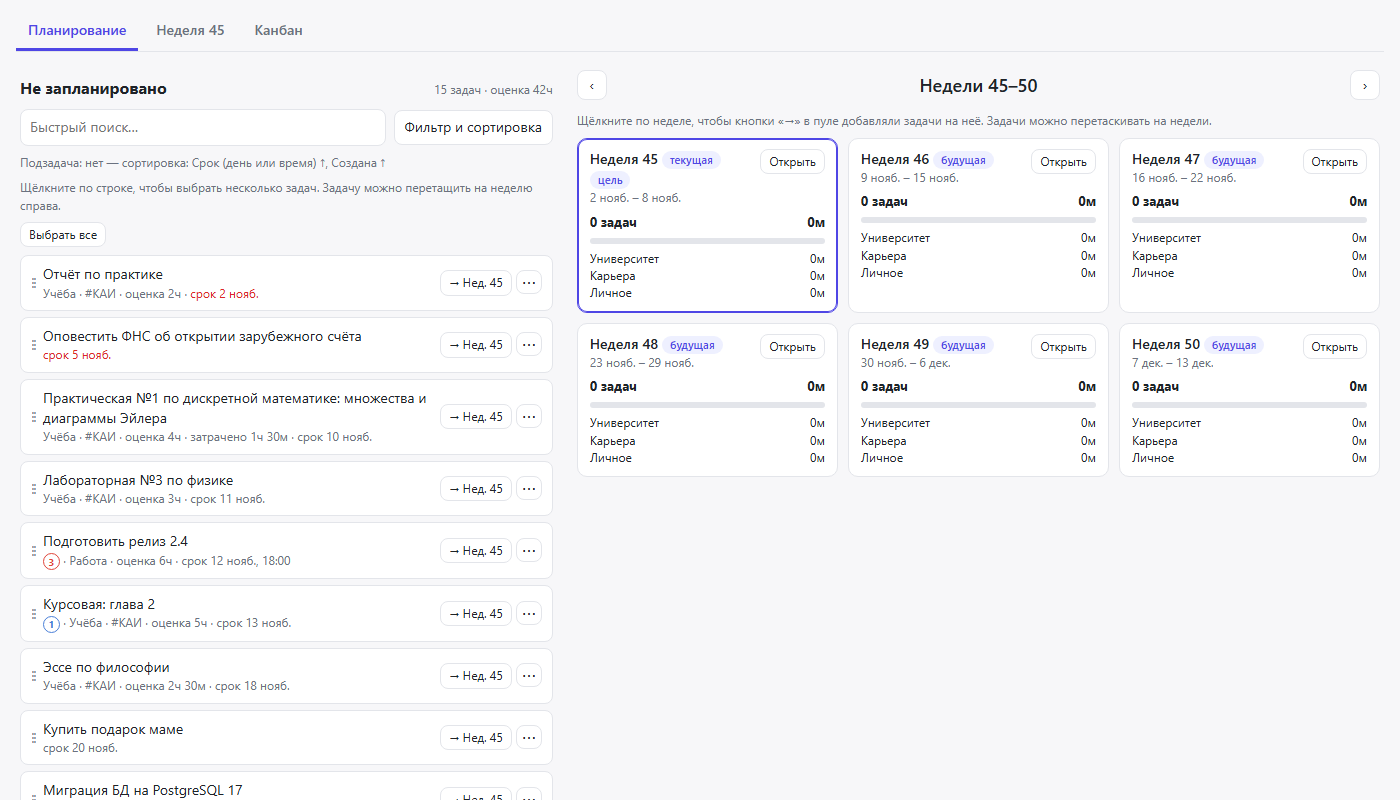
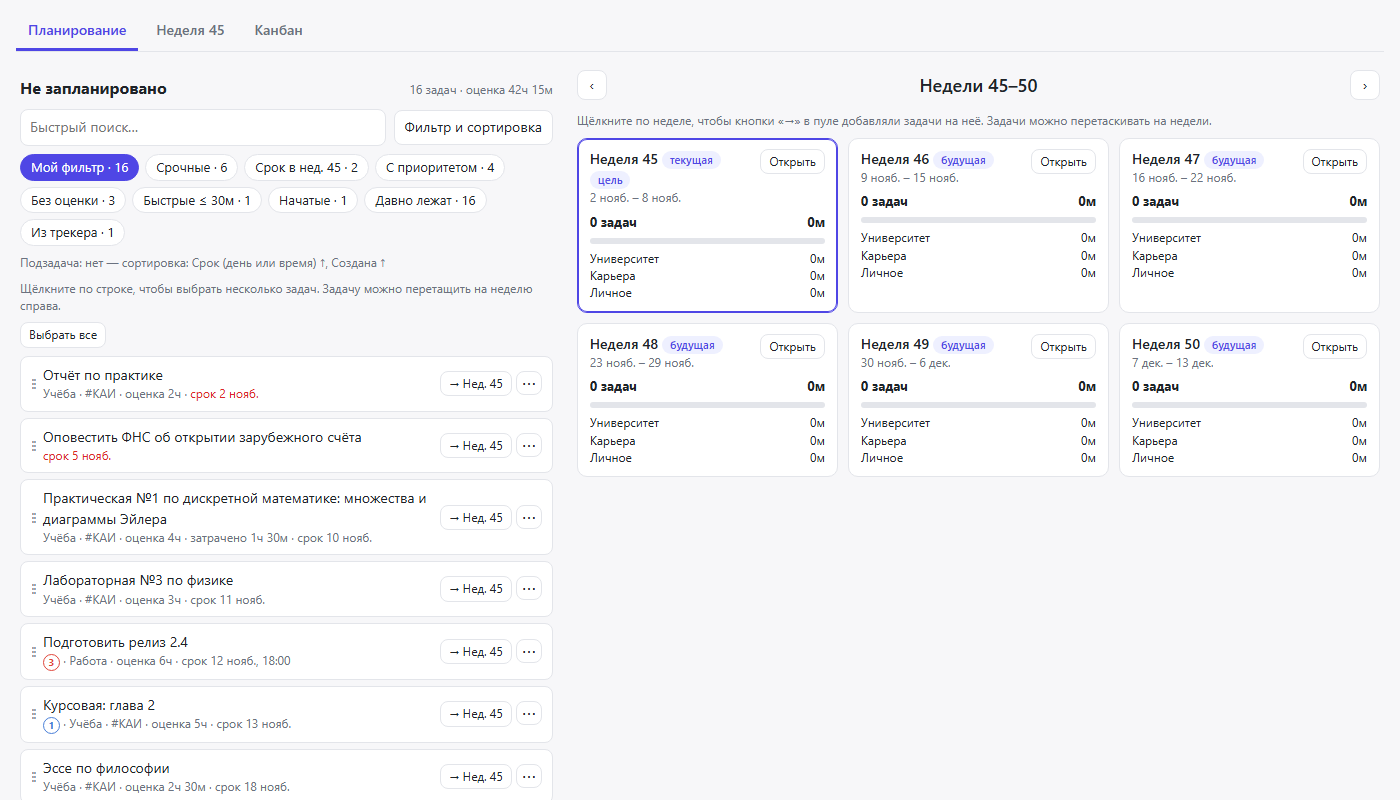
0.8.0: ready-made filters for the unplanned pool

Changed region(s): [[0.0, 0.1875, 0.3993, 1.0], [0.3071, 0.0938, 0.3993, 0.125], [0.3071, 0.9688, 0.3686, 1.0]]

diff --git a/week-planner/index.html b/week-planner/index.html
@@ -244,6 +244,7 @@
         <input id="poolSearch" type="search" autocomplete="off">
         <button type="button" id="poolCfgBtn"></button>
       </div>
+      <div id="poolPresets" class="chips" style="margin-bottom:8px"></div>
       <div id="poolSummary" class="muted hint"></div>
       <div id="poolHint" class="muted hint"></div>
       <div class="toolbar">
@@ -367,6 +368,18 @@
       toDoing: 'Start →', toDone: 'Done →', toTodo: '← To do', reopen: '← Reopen',
       toastAdded: 'Added to week {w}: {n}', toastMoved: 'Moved to week {w}: {n}', toastRemoved: 'Removed from the week: {n}',
       undo: 'Undo', undone: 'Undone',
+      pr_custom: 'My filter', pr_urgent: 'Urgent', pr_week: 'Due in W{n}', pr_prio: 'With priority',
+      pr_noest: 'No estimate', pr_quick: 'Quick ≤ 30m', pr_started: 'Started', pr_stale: 'Old', pr_issues: 'From tracker',
+      prh_custom: 'Your filter from "Filter & sort"',
+      prh_urgent: 'Due in 7 days or earlier, overdue included. By due date.',
+      prh_week: 'Due in the week selected on the right. By due date.',
+      prh_prio: 'Tasks with a priority. 3 first, then 2, then 1.',
+      prh_noest: 'Tasks without an estimate: estimate them before planning.',
+      prh_quick: 'Estimate of 30 minutes or less. Shortest first.',
+      prh_started: 'Time already tracked. Most tracked first.',
+      prh_stale: 'Created more than 30 days ago. Oldest first.',
+      prh_issues: 'Tasks from GitHub, GitLab and other trackers.',
+      edPoolFrom: 'Based on the ready-made filter "{p}". After saving it becomes "My filter".',
       allocated: 'Allocated to categories {a} of {b}',
       allocOver: 'Category limits ({a}) exceed the week limit ({b}). Lower the category limits.',
       catClamped: 'Limit of "{name}" lowered to {t}: category limits together cannot exceed the week limit ({w}).',
@@ -406,7 +419,7 @@
       op_contains: 'contains', op_notContains: 'does not contain', op_equals: 'equals', op_startsWith: 'starts with',
       op_empty: 'is empty', op_notEmpty: 'is not empty', op_gt: '>', op_gte: '≥', op_lt: '<', op_lte: '≤', op_eq: '=',
       op_isTrue: 'yes', op_isFalse: 'no', op_on: 'on', op_before: 'before', op_after: 'after',
-      op_overdue: 'is overdue', op_withinDays: 'within next N days', op_inSelWeek: 'in target week',
+      op_overdue: 'is overdue', op_withinDays: 'within the next', op_byDays: 'no later than in', op_olderThanDays: 'more than', daysAgo: 'days ago', op_inSelWeek: 'in target week',
       op_in: 'is one of', op_notIn: 'is not one of', op_any: 'has any of', op_all: 'has all of', op_none: 'has none of'
     },
     ru: {
@@ -438,6 +451,18 @@
       toDoing: 'В работу →', toDone: 'Готово →', toTodo: '← Сделать', reopen: '← Вернуть',
       toastAdded: 'Добавлено на неделю {w}: {n}', toastMoved: 'Перенесено на неделю {w}: {n}', toastRemoved: 'Убрано из недели: {n}',
       undo: 'Отменить', undone: 'Действие отменено',
+      pr_custom: 'Мой фильтр', pr_urgent: 'Срочные', pr_week: 'Срок в нед. {n}', pr_prio: 'С приоритетом',
+      pr_noest: 'Без оценки', pr_quick: 'Быстрые ≤ 30м', pr_started: 'Начатые', pr_stale: 'Давно лежат', pr_issues: 'Из трекера',
+      prh_custom: 'Ваш фильтр из «Фильтр и сортировка»',
+      prh_urgent: 'Срок через 7 дней или раньше, включая просроченные. По сроку.',
+      prh_week: 'Срок попадает в неделю, выбранную справа. По сроку.',
+      prh_prio: 'Задачи с приоритетом. Сначала 3, потом 2, потом 1.',
+      prh_noest: 'Задачи без оценки: их надо оценить перед планированием.',
+      prh_quick: 'Оценка 30 минут или меньше. Короткие — выше.',
+      prh_started: 'Уже есть затраченное время. Больше затрачено — выше.',
+      prh_stale: 'Созданы больше 30 дней назад. Старые — выше.',
+      prh_issues: 'Задачи из GitHub, GitLab и других трекеров.',
+      edPoolFrom: 'Основа — готовый фильтр «{p}». После сохранения он станет «Моим фильтром».',
       allocated: 'Распределено по категориям {a} из {b}',
       allocOver: 'Сумма лимитов категорий ({a}) больше лимита недели ({b}). Уменьшите лимиты категорий.',
       catClamped: 'Лимит «{name}» уменьшен до {t}: сумма лимитов категорий не может быть больше лимита недели ({w}).',
@@ -477,7 +502,7 @@
       op_contains: 'содержит', op_notContains: 'не содержит', op_equals: 'равно', op_startsWith: 'начинается с',
       op_empty: 'пусто', op_notEmpty: 'не пусто', op_gt: '>', op_gte: '≥', op_lt: '<', op_lte: '≤', op_eq: '=',
       op_isTrue: 'да', op_isFalse: 'нет', op_on: 'в день', op_before: 'раньше', op_after: 'позже',
-      op_overdue: 'просрочен', op_withinDays: 'в ближайшие N дней', op_inSelWeek: 'в целевую неделю',
+      op_overdue: 'просрочен', op_withinDays: 'в ближайшие', op_byDays: 'не позже чем через', op_olderThanDays: 'более', daysAgo: 'дн. назад', op_inSelWeek: 'в целевую неделю',
       op_in: 'один из', op_notIn: 'не из', op_any: 'любой из', op_all: 'все из', op_none: 'ни одного из'
     }
   };
@@ -612,11 +637,12 @@
     num: ['gt', 'gte', 'lt', 'lte', 'eq', 'empty', 'notEmpty'],
     dur: ['gt', 'gte', 'lt', 'lte', 'eq', 'empty', 'notEmpty'],
     bool: ['isTrue', 'isFalse'],
-    date: ['before', 'after', 'on', 'overdue', 'withinDays', 'inSelWeek', 'empty', 'notEmpty'],
+    date: ['before', 'after', 'on', 'overdue', 'withinDays', 'byDays', 'olderThanDays', 'inSelWeek', 'empty', 'notEmpty'],
     ref: ['in', 'notIn', 'empty', 'notEmpty'],
     set: ['any', 'all', 'none', 'empty', 'notEmpty']
   };
   var NO_VALUE_OPS = { empty: 1, notEmpty: 1, isTrue: 1, isFalse: 1, overdue: 1, inSelWeek: 1 };
+  var DAYS_OPS = { withinDays: 1, byDays: 1, olderThanDays: 1 };
   var fields = [];
   var fieldMap = {};
 
@@ -694,6 +720,8 @@
         if (op === 'after') return !c.value || d > c.value;
         if (op === 'overdue') return d < state.today;
         if (op === 'withinDays') return d >= state.today && d <= addDays(state.today, Number(c.value) || 0);
+        if (op === 'byDays') return d <= addDays(state.today, Number(c.value) || 0);
+        if (op === 'olderThanDays') return d < addDays(state.today, -(Number(c.value) || 0));
         if (op === 'inSelWeek') return isoWeekKey(new Date(v)) === state.target;
         return true;
       }
@@ -802,7 +830,8 @@
       },
       cats: d.cats,
       weekLimitH: posNum(raw.weekLimitH),
-      cardSort: normSort(raw.cardSort, d.cardSort)
+      cardSort: normSort(raw.cardSort, d.cardSort),
+      poolPreset: typeof raw.poolPreset === 'string' ? raw.poolPreset : null
     };
     if (Array.isArray(raw.cats)) {
       cfg.cats = raw.cats.filter(function (c) { return c && c.id; }).map(function (c) {
@@ -1079,8 +1108,40 @@
       .sort(function (a, b) { return state.assign[a.id].w < state.assign[b.id].w ? -1 : 1; });
   }
 
+  // ---------- ready-made pool filters ----------
+  // Every preset hides subtasks, like the default custom filter: their hours are part of the parent.
+  var NO_SUB = { field: 'isSubtask', op: 'isFalse' };
+  var PRESETS = [
+    { id: 'urgent', conds: [{ field: 'due', op: 'byDays', value: 7 }], sort: [{ field: 'due', dir: 'asc' }, { field: 'x:priority', dir: 'desc' }] },
+    { id: 'week', conds: [{ field: 'due', op: 'inSelWeek' }], sort: [{ field: 'due', dir: 'asc' }] },
+    { id: 'prio', needs: 'x:priority', conds: [{ field: 'x:priority', op: 'notEmpty' }], sort: [{ field: 'x:priority', dir: 'desc' }, { field: 'due', dir: 'asc' }] },
+    { id: 'noest', conds: [{ field: 'timeEstimate', op: 'empty' }], sort: [{ field: 'due', dir: 'asc' }, { field: 'created', dir: 'asc' }] },
+    { id: 'quick', conds: [{ field: 'timeEstimate', op: 'notEmpty' }, { field: 'timeEstimate', op: 'lte', value: 0.5 }], sort: [{ field: 'timeEstimate', dir: 'asc' }, { field: 'due', dir: 'asc' }] },
+    { id: 'started', conds: [{ field: 'timeSpent', op: 'notEmpty' }], sort: [{ field: 'timeSpent', dir: 'desc' }] },
+    { id: 'stale', conds: [{ field: 'created', op: 'olderThanDays', value: 30 }], sort: [{ field: 'created', dir: 'asc' }] },
+    { id: 'issues', conds: [{ field: 'hasIssue', op: 'isTrue' }], sort: [{ field: 'due', dir: 'asc' }, { field: 'issueType', dir: 'asc' }] }
+  ];
+
+  function presetView(p) {
+    return { id: 'pool', match: 'all', conds: [NO_SUB].concat(p.conds), sort: p.sort };
+  }
+  function availablePresets() {
+    return PRESETS.filter(function (p) { return !p.needs || fieldMap[p.needs]; });
+  }
+  function presetLabel(id) {
+    return id === 'week' ? t('pr_week', { n: weekNum(state.target) }) : t('pr_' + id);
+  }
+  function activePreset() {
+    var id = state.cfg.poolPreset;
+    return availablePresets().filter(function (p) { return p.id === id; })[0] || null;
+  }
+  function activePoolView() {
+    var p = activePreset();
+    return p ? presetView(p) : state.cfg.pool;
+  }
+
   function poolTasks(view) {
-    var v = view || state.cfg.pool;
+    var v = view || activePoolView();
     var q = state.poolQuery.trim().toLowerCase();
     return sortTasks(Object.keys(state.tasks).map(function (id) { return state.tasks[id]; }).filter(function (task) {
       return !task.isDone && !state.archived[task.id] && !state.assign[task.id] &&
@@ -1409,7 +1470,22 @@
     list.forEach(function (x) { visibleIds[x.id] = true; });
     Object.keys(state.poolSel).forEach(function (id) { if (!visibleIds[id]) delete state.poolSel[id]; });
     $('poolInfo').textContent = nTasks(list.length) + ' · ' + t('estimate', { t: fmtDur(hoursOf(list)) });
-    $('poolSummary').textContent = viewSummary(state.cfg.pool);
+    $('poolSummary').textContent = viewSummary(activePoolView());
+    var cur = activePreset() ? activePreset().id : 'custom';
+    fill($('poolPresets'), [{ id: 'custom' }].concat(availablePresets()).map(function (p) {
+      var on = cur === p.id;
+      var n = poolTasks(p.id === 'custom' ? state.cfg.pool : presetView(p)).length;
+      return el('button', {
+        type: 'button', className: 'tog' + (on ? ' on' : ''), 'aria-pressed': on ? 'true' : 'false',
+        title: t('prh_' + p.id), text: (p.id === 'custom' ? t('pr_custom') : presetLabel(p.id)) + ' · ' + n,
+        onclick: run(function () {
+          state.cfg.poolPreset = p.id === 'custom' ? null : p.id;
+          state.poolSel = {};
+          render(true);
+          return saveCfg();
+        })
+      });
+    }));
     fill($('poolList'), list.map(poolRow));
     $('poolEmpty').hidden = list.length > 0;
     renderPoolToolbar();
@@ -1964,7 +2040,7 @@
   // ---------- editors ----------
   function openEditor(kind) {
     var draft = kind === 'pool'
-      ? JSON.parse(JSON.stringify(state.cfg.pool))
+      ? JSON.parse(JSON.stringify(activePoolView()))
       : JSON.parse(JSON.stringify({ cats: state.cfg.cats, weekLimitH: state.cfg.weekLimitH, cardSort: state.cfg.cardSort }));
     editor = { kind: kind, draft: draft, orig: JSON.stringify(draft), armed: null, discardArmed: false };
     $('overlay').hidden = false;
@@ -1988,7 +2064,8 @@
   function defaultValue(type, op) {
     if (NO_VALUE_OPS[op]) return undefined;
     if (type === 'ref' || type === 'set') return [];
-    if (op === 'withinDays') return 7;
+    if (op === 'withinDays' || op === 'byDays') return 7;
+    if (op === 'olderThanDays') return 30;
     if (type === 'date') return state.today;
     if (type === 'num' || type === 'dur') return 0;
     return '';
@@ -2033,7 +2110,7 @@
     if (f.type === 'ref') return (c.value || []).map(function (id) { return state.projects[id] || id; }).join(', ');
     if (f.type === 'set') return (c.value || []).map(function (id) { return '#' + tagTitle(id); }).join(', ');
     if (f.type === 'dur') return (c.value || 0) + ' ' + t('h');
-    if (c.op === 'withinDays') return (c.value || 0) + ' ' + t('days');
+    if (DAYS_OPS[c.op]) return (c.value || 0) + ' ' + (c.op === 'olderThanDays' ? t('daysAgo') : t('days'));
     return c.value === undefined ? '' : String(c.value);
   }
   function condText(c) {
@@ -2054,11 +2131,11 @@
     if (f.type === 'set') {
       return chipSelect(Object.keys(state.tags).map(function (id) { return { id: id, title: '#' + state.tags[id] }; }), c.value || [], upd);
     }
-    if (f.type === 'date' && c.op !== 'withinDays') {
+    if (f.type === 'date' && !DAYS_OPS[c.op]) {
       return el('input', { type: 'date', value: c.value || '', oninput: function (ev) { upd(ev.target.value); } });
     }
-    if (f.type === 'num' || f.type === 'dur' || c.op === 'withinDays') {
-      var unit = f.type === 'dur' ? t('h') : (c.op === 'withinDays' ? t('days') : '');
+    if (f.type === 'num' || f.type === 'dur' || DAYS_OPS[c.op]) {
+      var unit = f.type === 'dur' ? t('h') : (c.op === 'olderThanDays' ? t('daysAgo') : (DAYS_OPS[c.op] ? t('days') : ''));
       var inp = el('input', {
         type: 'number', step: f.type === 'dur' ? '0.25' : '1', style: 'width:90px', value: c.value === undefined ? '' : String(c.value),
         oninput: function (ev) { upd(parseFloat(String(ev.target.value).replace(',', '.')) || 0); }
@@ -2075,7 +2152,7 @@
     (OPS[type] || []).forEach(function (op) { opSel.appendChild(el('option', { value: op, text: t('op_' + op) })); });
     opSel.value = c.op;
     opSel.addEventListener('change', function () {
-      var shape = function (op) { return NO_VALUE_OPS[op] ? 'none' : (op === 'withinDays' ? 'days' : 'v'); };
+      var shape = function (op) { return NO_VALUE_OPS[op] ? 'none' : (DAYS_OPS[op] ? 'days' : 'v'); };
       var old = shape(c.op);
       c.op = opSel.value;
       if (old !== shape(c.op)) c.value = defaultValue(type, c.op);
@@ -2165,6 +2242,7 @@
     var nodes = [];
     if (editor.kind === 'pool') {
       nodes.push(el('h2', { text: t('edPool') }));
+      if (activePreset()) nodes.push(el('p', { className: 'muted', text: t('edPoolFrom', { p: presetLabel(activePreset().id) }) }));
       var matchSel = el('select');
       matchSel.appendChild(el('option', { value: 'all', text: t('matchAll') }));
       matchSel.appendChild(el('option', { value: 'any', text: t('matchAny') }));
@@ -2232,6 +2310,7 @@
     if (editor.kind === 'cats' && allocOver(d)) { updateAlloc(); return; }
     if (editor.kind === 'pool') {
       state.cfg.pool = { id: 'pool', match: d.match === 'any' ? 'any' : 'all', conds: d.conds, sort: d.sort };
+      state.cfg.poolPreset = null; // the edited filter becomes "My filter"
     } else {
       state.cfg.cats = d.cats.map(function (c) {
         var name = (c.name || '').trim();

diff --git a/tests/smoke.test.js b/tests/smoke.test.js
@@ -102,6 +102,40 @@ function drag(w, from, to) {
       assert.ok(!names($('poolList')).includes('Настроить мониторинг Grafana'));
       assert.ok($('weeksGrid').querySelectorAll('.wcard')[0].textContent.includes('23ч 30м / 30ч'));
     });
+
+    // Ready-made filters. Target week is 46 here (selected above).
+    const chipTexts = () => [...$('poolPresets').querySelectorAll('.tog')].map((b) => b.textContent);
+    check('ready-made filters are listed with task counts', () => {
+      assert.deepStrictEqual(chipTexts(), [
+        'Мой фильтр · 7', 'Срочные · 1', 'Срок в нед. 46 · 1', 'С приоритетом · 1', 'Без оценки · 2',
+        'Быстрые ≤ 30м · 1', 'Начатые · 0', 'Давно лежат · 7', 'Из трекера · 0'
+      ]);
+    });
+    btn($('poolPresets'), 'Срочные · 1').click();
+    await wait(50);
+    check('a ready-made filter narrows the pool and is remembered', () => {
+      assert.deepStrictEqual(names($('poolList')), ['Лабораторная №3 по физике']);
+      assert.strictEqual(JSON.parse(w.__store.cfg).poolPreset, 'urgent');
+      assert.ok($('poolSummary').textContent.includes('Срок (день или время) не позже чем через 7 дн.'), $('poolSummary').textContent);
+    });
+    btn($('poolPresets'), 'Быстрые ≤ 30м · 1').click();
+    await wait(50);
+    check('"Quick" shows short tasks', () => {
+      assert.deepStrictEqual(names($('poolList')), ['Ответить на письмо куратора']);
+    });
+    $('poolCfgBtn').click();
+    check('editing starts from the active ready-made filter', () => {
+      assert.ok($('modal').textContent.includes('Основа — готовый фильтр «Быстрые ≤ 30м»'));
+      assert.strictEqual($('modal').querySelectorAll('.cond').length, 3);
+    });
+    btn($('modal'), 'Сохранить').click();
+    await wait(50);
+    check('saving turns it into "My filter"', () => {
+      const cfg = JSON.parse(w.__store.cfg);
+      assert.strictEqual(cfg.poolPreset, null);
+      assert.ok(cfg.pool.conds.some((c) => c.field === 'timeEstimate' && c.op === 'lte'));
+      assert.ok(chipTexts()[0].startsWith('Мой фильтр · 1'));
+    });
   }
 
   // ---------- week page ----------

diff --git a/tests/fake-api.js b/tests/fake-api.js
@@ -42,7 +42,8 @@ module.exports = function fakeApiSource() {
     T('s1', 'Бэкап перед миграцией', { projectId: 'work', parentId: 'p2', timeEstimate: 1 * H }),
     T('s2', 'Прогнать тесты', { projectId: 'work', parentId: 'p2', timeEstimate: 2 * H }),
     T('p3', 'Купить подарок маме', { dueDay: '2026-11-20' }),
-    T('p4', 'Прочитать «Designing Data-Intensive Applications», гл. 5', { tagIds: ['read'], timeEstimate: 2 * H }),
+    T('p4', 'Прочитать «Designing Data-Intensive Applications», гл. 5', { tagIds: ['read'], timeEstimate: 2 * H, priority: 2 }),
+    T('p8', 'Ответить на письмо куратора', { projectId: 'uni', timeEstimate: 0.25 * H }),
     T('p5', 'Записаться к стоматологу', {}),
     T('p6', 'Эссе по философии', { projectId: 'uni', tagIds: ['kai'], timeEstimate: 2.5 * H, dueDay: '2026-11-18', deadlineDay: '2026-11-17' }),
     T('p7', 'Настроить мониторинг Grafana', { projectId: 'work', timeEstimate: 4 * H, issueId: '123', issueType: 'GITLAB' })

diff --git a/README.md b/README.md
@@ -16,6 +16,8 @@ plan tasks for whole weeks, sort them into categories with hour limits, and work
 ![Планирование](screenshots/planning.png)
 
 - Слева — пул «Не запланировано»: невыполненные задачи без недели. Фильтр и сортировка настраиваются по всем полям задачи.
+- Готовые фильтры пула: «Срочные», «Срок в неделе N», «С приоритетом», «Без оценки», «Быстрые ≤ 30м»,
+  «Начатые», «Давно лежат», «Из трекера». «Мой фильтр» настраивается кнопкой «Фильтр и сортировка».
 - Справа — 6 ближайших недель. В каждой видно загрузку по категориям и общий план недели.
 - Задачу можно перетащить на неделю или добавить кнопкой «→ Нед. N». Щелчок по неделе выбирает, куда добавляют кнопки.
 - Сверху — просроченные задачи прошлых недель с переносом на текущую неделю.

diff --git a/CHANGELOG.md b/CHANGELOG.md
@@ -2,6 +2,16 @@
 
 The project is in early development (0.x). Data formats and UI may still change.
 
+## 0.8.0 — 2026-11-08
+
+- **Ready-made filters for the unplanned pool**, shown as buttons with task counts:
+  Urgent (due in 7 days or earlier, overdue included), Due in the target week, With priority,
+  No estimate, Quick (≤ 30 min), Started, Old (created more than 30 days ago), From tracker.
+  "My filter" is the editable custom filter. The chosen filter is remembered.
+- "Filter & sort" with a ready-made filter active starts from its conditions; saving makes it "My filter".
+- New date conditions: "no later than in N days" (overdue included) and "more than N days ago".
+- "With priority" appears only when tasks have the `priority` field.
+
 ## 0.7.0 — 2026-11-08
 
 - **Default limits and own week limits.** The "Categories & default limits" dialog sets the default week limit
